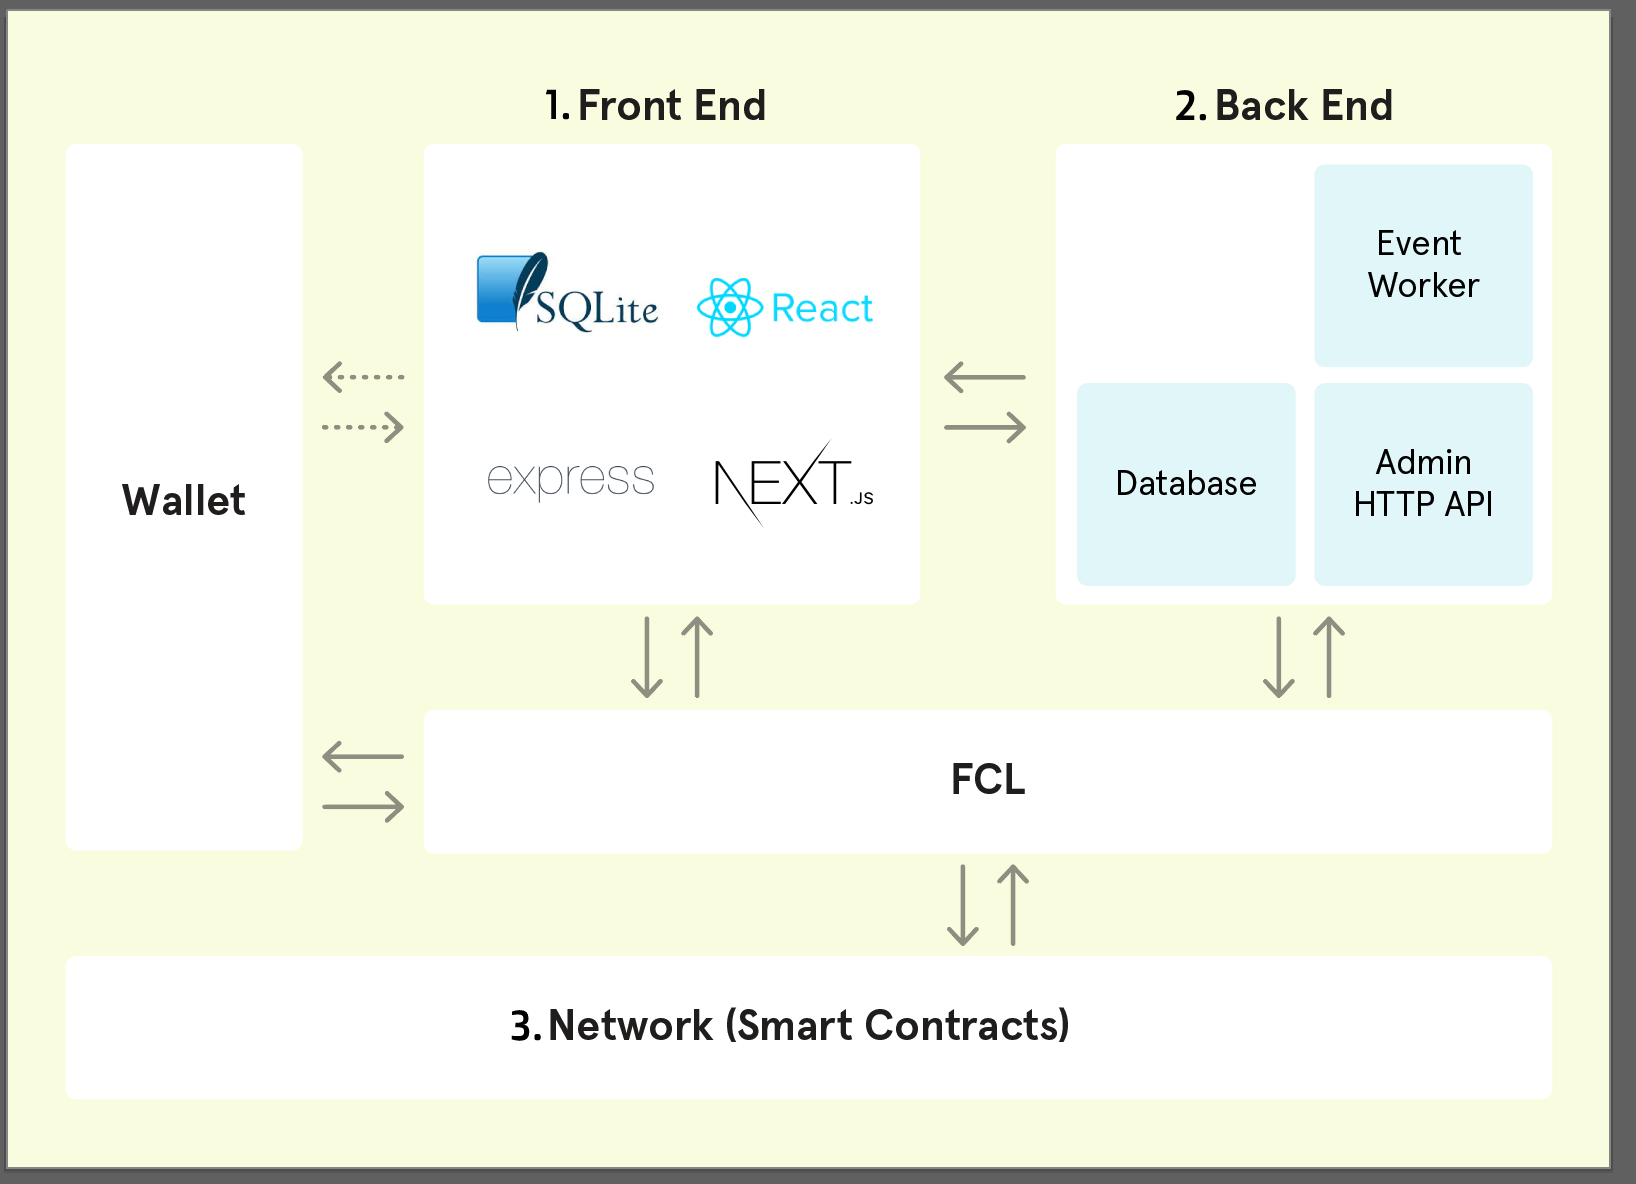
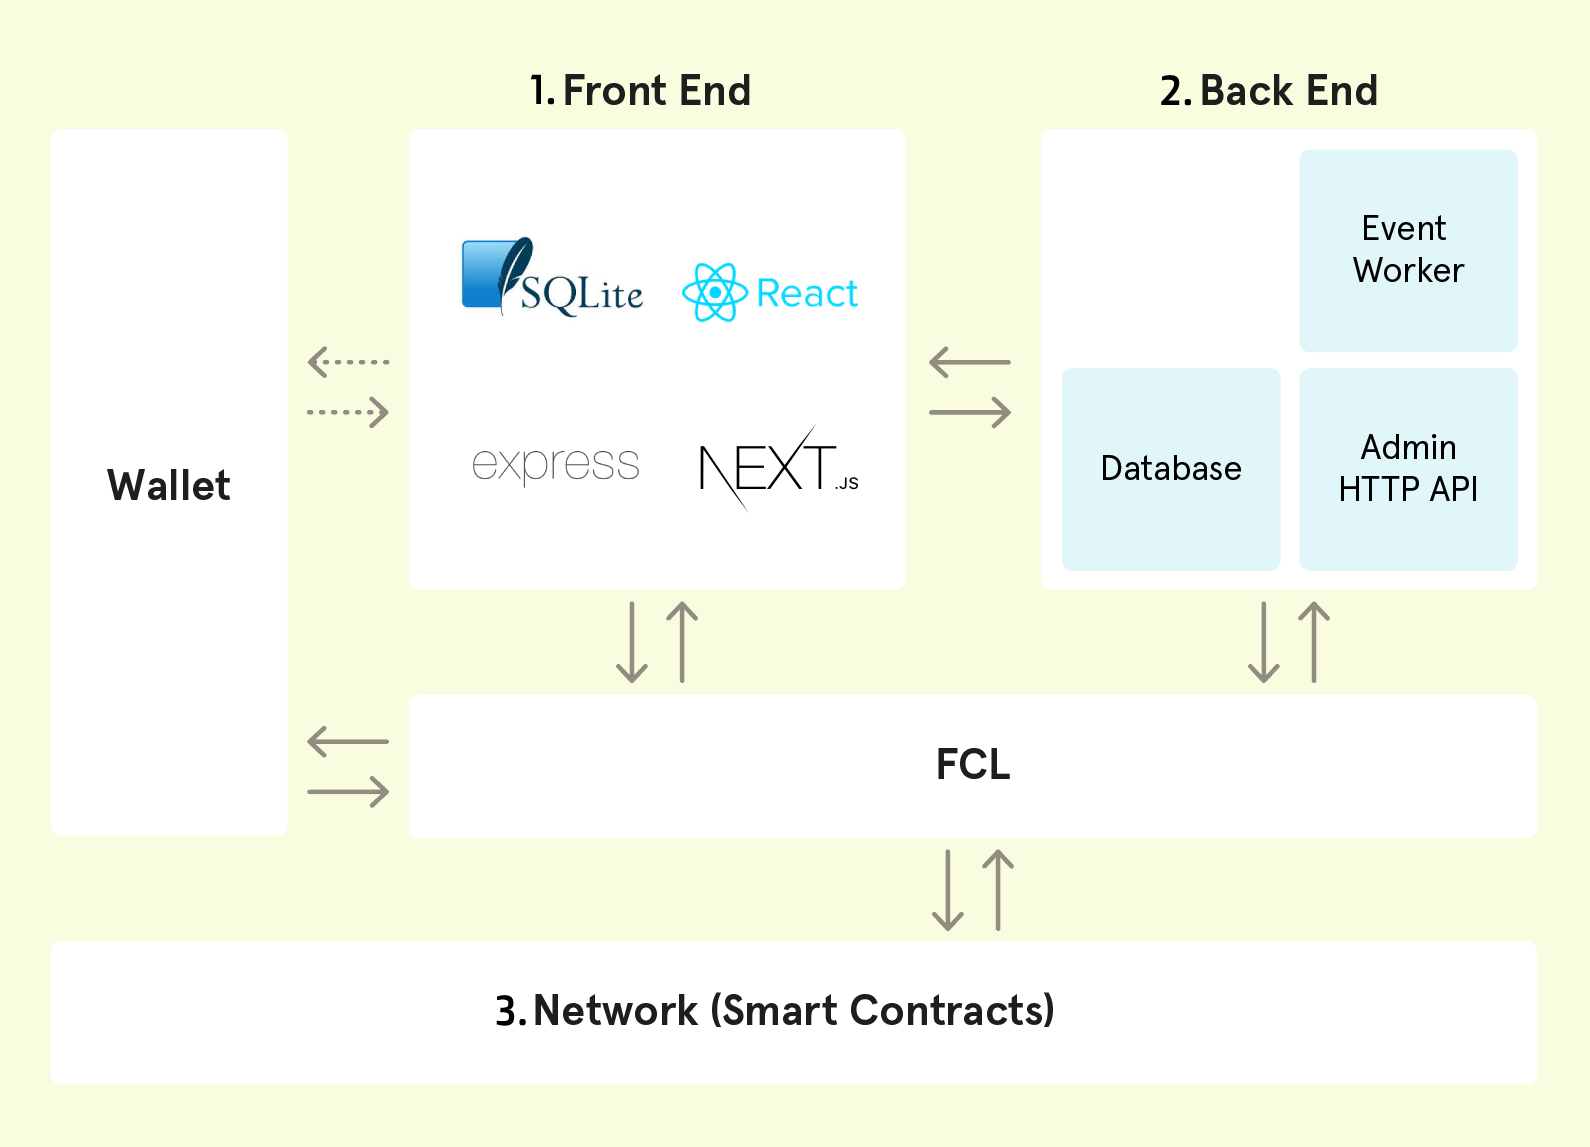
fix: instructions

Changed region(s): [[0.0, 0.0, 1.0, 1.0], [0.3082, 0.3967, 0.4006, 0.4272], [0.5855, 0.6408, 0.6472, 0.6713]]

diff --git a/docs/gatsby-config.js b/docs/gatsby-config.js
@@ -685,7 +685,7 @@ const sections = [
         "kitty-items/install",
         "kitty-items/start",
         "kitty-items/modify",
-        "kitty-items/upgrade",
+        "kitty-items/update",
         "kitty-items/next-steps",
       ],
       "NFT Matketplace Guide": [

diff --git a/docs/content/dapp-development/smart-contracts.md b/docs/content/dapp-development/smart-contracts.md
@@ -1,6 +1,6 @@
 ---
 title: Smart Contracts for Flow Dapps
-sidebar_title: Smart Contracts 
+sidebar_title: Smart Contracts
 ---
 
 At its core, a decentralized application is defined by the [smart contracts](https://en.wikipedia.org/wiki/Smart_contract) it uses on the blockchain. Rather than relying on centralized application servers and databases, dapps model their core application logic using smart contracts, often referred to as the “on-chain” code.
@@ -13,21 +13,21 @@ Smart contracts on the Flow blockchain are implemented in [Cadence](https://gith
 
 ### Onboard to Cadence
 
-To get started with Cadence, we recommended covering the introductory tutorials available in the [Flow Playground](https://play.onflow.org/), a simple web IDE designed for learning Cadence. 
+To get started with Cadence, we recommended covering the introductory tutorials available in the [Flow Playground](https://play.onflow.org/), a simple web IDE designed for learning Cadence.
 
 ### Learn Through Examples
 
-After learning the basics, check out the [Kitty Items sample dapp](https://github.com/onflow/kitty-items) to see Cadence contracts being used by a real web application. Inspired by CryptoKitties, Kitty Items demonstrates a simple NFT application that supports NFT minting, sales, and peer-to-peer trading.
+After learning the basics, check out the [Kitty Items sample dapp](/kitty-items/) to see Cadence contracts being used by a real web application. Inspired by CryptoKitties, Kitty Items demonstrates a simple NFT application that supports NFT minting, sales, and peer-to-peer trading.
 
 ### Configure Your Local Environment
 
-To build confidently, you will want to set up the appropriate local environment and have an adequate test suite to ensure your smart contracts operate as intended. To do this, read the [Kitty Items local development instructions](https://github.com/onflow/kitty-items/blob/master/LOCAL_DEV.md) to familiarize yourself with the following tools:
+To build confidently, you will want to set up the appropriate local environment and have an adequate test suite to ensure your smart contracts operate as intended. To do this, familiarize yourself with the following tools:
 
-* [Flow CLI](/flow-cli/): A utility to directly interact with the chain and manage accounts and contracts.
-* [Flow Emulator](/emulator/): A lightweight server that simulates the Flow blockchain (strongly recommended during development).
-* [FCL Dev Wallet](https://github.com/onflow/fcl-dev-wallet/): A utility to simulate user wallets in development.
-* [Visual Studio Code Extension](/vscode-extension/): An IDE integration for developing smart contracts.
-* [JS Testing Framework](https://github.com/onflow/flow-js-testing): A framework to easily test your smart contracts.
+- [Flow CLI](/flow-cli/): A utility to directly interact with the chain and manage accounts and contracts.
+- [Flow Emulator](/emulator/): A lightweight server that simulates the Flow blockchain (strongly recommended during development).
+- [FCL Dev Wallet](https://github.com/onflow/fcl-dev-wallet/): A utility to simulate user wallets in development.
+- [Visual Studio Code Extension](/vscode-extension/): An IDE integration for developing smart contracts.
+- [JS Testing Framework](https://github.com/onflow/flow-js-testing): A framework to easily test your smart contracts.
 
 ## Storing Data on Flow
 
@@ -63,16 +63,16 @@ The Flow blockchain has existing smart contract standards for both fungible and 
 
 All NFTs on the Flow blockchain implement the [NonFungibleToken](/core-contracts/non-fungible-token/) interface, allowing them to be compatible with wallets, marketplaces and other cross-app experiences.
 
-* [Non-Fungible Token (NFT) contract interface](/core-contracts/non-fungible-token/)
+- [Non-Fungible Token (NFT) contract interface](/core-contracts/non-fungible-token/)
 
 ### NFT Sales and Trading {#nft-sales-and-trading}
 
 Flow has a standard contract to facilitate both the direct sales and peer-to-peer trading of NFTs. The NFT storefront contract is useful for dapps that want to provide an NFT marketplace experience.
 
-* [NFT Storefront contract](https://github.com/onflow/nft-storefront)
+- [NFT Storefront contract](https://github.com/onflow/nft-storefront)
 
 ### Fungible Tokens
 
 Fungible tokens (i.e. coins, currencies) on the Flow blockchain, including the default cryptocurrency token FLOW, implement the [FungibleToken](/core-contracts/fungible-token/) interface.
 
-* [Fungible Token contract interface](/core-contracts/fungible-token/)
+- [Fungible Token contract interface](/core-contracts/fungible-token/)

diff --git a/docs/content/kitty-items/index.md b/docs/content/kitty-items/index.md
@@ -8,7 +8,7 @@ Kitty Items is a complete NFT marketplace inspired by [CryptoKitties](https://ww
 
 The following chapters use the project to explain the components and concepts of the Flow blockchain and its programming language [Cadence](/cadence/). At the end, you will be able to:
 
-- deploy and upgrade smart contracts
+- deploy and update smart contracts
 - mint and transfer NFTs
 - add a new kind of NFTs to the marketplace
 - interact with the Flow blockchain from within a web application
@@ -25,16 +25,16 @@ The project consists of 3 key components:
 
 ![Project overview](kitty-items-diagram.png)
 
-### 1. Web application
+### 1. Front End
 
-A true client-only web app. This is a complete web application built with NextJS and React that demonstrates how to build a website that connects directly to the Flow blockchain using [FCL](/fcl/). FCL handles authentication and authorization of [Flow accounts](/concepts/accounts-and-keys/), [signing transactions](/concepts/transaction-signing/), and querying data using using Cadence scripts.
+This is a complete web application built with NextJS and React that demonstrates how to build a website that connects directly to the Flow blockchain using [FCL](/fcl/). FCL handles authentication and authorization of [Flow accounts](/concepts/accounts-and-keys/), [signing transactions](/concepts/transaction-signing/), and querying data using using Cadence scripts.
 
-### 2. Backend API
+### 2. Back End
 
-We love decentralization, but servers are still very useful, and this one's no exception. The API helps preserve the separation of concerns, so that your process and business logic doesn't have to implemented on the front-end. Backend operations are necessary to ensure secure handling of accounts and associated keys and to streamline blockchain interactions.
+We love decentralization, but servers are still very useful, and this one's no exception. The backend API helps preserve the separation of concerns, so that your process and business logic doesn't have to implemented on the front-end. Backend operations are necessary to ensure secure handling of accounts and associated keys and to streamline blockchain interactions.
 
 The code in this project demonstrates how to connect to Flow using [FCL](/fcl/) from a Node JS backend. It's also chalk-full of handy patterns you'll probably want to use for more complex and feature-rich blockchain applications, like storing and querying events using a SQL database (SQLite). The API demonstrates how to send transactions to the Flow blockchain, specifically for minting [Kitty Items](https://github.com/onflow/kitty-items/blob/master/cadence/contracts/KittyItems.cdc) (non-fungible tokens).
 
-### 3. Cadence contracts, scripts, and transactions
+### 3. Network (Smart Contracts)
 
 [Cadence](/cadence) smart contracts, scripts & transactions for your viewing pleasure. This folder contains all of the blockchain logic for the marketplace application. Here you will find examples of [fungible token](https://github.com/onflow/flow-ft) and [non-fungible token (NFT)](https://github.com/onflow/flow-nft) smart contract implementations, as well as the scripts and transactions that interact with them. It also contains examples of how to _test_ your Cadence code.

diff --git a/docs/content/kitty-items/modify.md b/docs/content/kitty-items/modify.md
@@ -50,7 +50,7 @@ KITTY ITEMS HAS STARTED
 Visit: http://localhost:3001
 ```
 
-You may notice that you were not prompted for an account. This is because the local setup includes a [developer wallet](https://github.com/onflow/fcl-dev-wallet) that simulated user accounts.
+You may notice that you were not prompted for an account. This is because the local setup includes a [developer wallet](https://github.com/onflow/fcl-dev-wallet) that simulates user accounts.
 
 ## Add new NFT collection
 
@@ -161,35 +161,30 @@ You will notice that the new NFT collection will be available in four rarities, 
 
 > **Note**: If you were to add your own NFT, you would have to upload images to IPFS and store the new hashes instead.
 
-## Redeploy Cadence contract
+## Update contract on the emulator
 
-TODO
+Because you changed the smart contract for Kitty Items, you have to redeploy it to the emulator. Run the following command in your terminal, inside the root folder:
 
 ```sh
-# run in root folder of the project
-flow project deploy --update
+npm run update:emulator
 ```
 
-Response:
+The script will update all contracts included in the project. The last one is the one you changed.
 
 ```sh
 Deploying 4 contracts for accounts: emulator-account
 
-NonFungibleToken -> 0xf8d6e0586b0a20c7 (33460a91c9d83ea518fb776d5c54bb440873c6beb91b5ea5c1b2f7f111fe6218)
-
-NFTStorefront -> 0xf8d6e0586b0a20c7 (c0e64e01f4b64e51f6ef51307c415e3cd6b2c8cf35cf206bab8fc4d6aed3662b)
-
-MetadataViews -> 0xf8d6e0586b0a20c7 (e6c2cd6ad883a9209c4e3ebfc4e4b530818213dda7ac39c6f59087360decef11)
-
-KittyItems -> 0xf8d6e0586b0a20c7 (3610348aea10ca636649665bf29f3e7f0b31436bbbed8460491f9ff86e75dcdb)
-
+NonFungibleToken -> 0xf8d6e0586b0a20c7 (3346...6218)
+NFTStorefront -> 0xf8d6e0586b0a20c7 (c0e6...662b)
+MetadataViews -> 0xf8d6e0586b0a20c7 (e6c2...ef11)
+KittyItems -> 0xf8d6e0586b0a20c7 (3612...dcdb)
 
 ✨ All contracts deployed successfully
 ```
 
 **Congratulations! You have completed all changes and your project now includes a new NFT collection for sunglasses.**
 
-## Mint a new sunglasses NFT
+## Mint new sunglasses NFT
 
 To mint one of the new NFTs in your local environment, you will go to the Kitty Items admin dashboard.
 
@@ -201,6 +196,6 @@ Next, click on the top banner to "Mint some Kitty Items". You will be prompted t
 
 Now, hit the "Mint Item" button and see a new NFT being generated. The generation of new NFTs is randomized, so you will have to **mint a few new NFTs** until you will see an NFT from your new sunglasses collection.
 
-During the minting process, you should see the shades flash in the preview pane on the left side of the screen.
+During the minting process, you should see the sunglasses flash in the preview pane on the left side of the screen.
 
-> **Note**: It is best to hit the back button in your browser to get back to the "Mint a New Item" screen. You can jump to this screen by opening this URL: [`http://localhost:3001/admin/mint/`](http://localhost:3001/admin/mint/).
+> **Note**: It is best to hit the back button in your browser to get back to the "Mint a New Item" screen. You can jump to this screen by opening the [admin dashboard](http://localhost:3001/admin/mint/) directly.

diff --git a/docs/content/kitty-items/update.md b/docs/content/kitty-items/update.md
@@ -1,0 +1,88 @@
+---
+title: Update
+description: Update modified contracts on the testnet
+sidebar_title: Update
+---
+
+In the [first step](/kitty-items/start/) of this tutorial, you started the project on the testnet. The script uploaded the initial contracts on the network for you.
+
+Now that you implemented and tested your changes locally on the emulator, it is time to deploy your modified smart contracts to the testnet.
+
+## Start on testnet
+
+Run the project on the testnet again. The script will use the account you initially created:
+
+```sh
+npm run dev:testnet
+```
+
+You will be asked if you want to use the existing account credentials. Enter `Y` to continue:
+
+```sh
+? Use existing tesnet credentials in env.testnet ? (Y/n) Y
+```
+
+Once all services are up and running, you will see the same logs you saw in the [second step](/kitty-items/start/):
+
+```sh
+✔ API server started
+ℹ Kitty Items API is running at: http://localhost:3000
+ℹ View log output: npx pm2 logs api
+
+✔ Storefront web app started
+ℹ Kitty Items Web App is running at: http://localhost:3001
+ℹ View log output: npx pm2 logs web
+
+KITTY ITEMS HAS STARTED
+
+
+Visit: http://localhost:3001
+
+
+View your account and transactions here:
+https://testnet.flowscan.org/account/0xa4c19ed9d691743c
+
+Explore your account here:
+https://flow-view-source.com/testnet/account/0xa4c19ed9d691743c
+```
+
+Open up the last link to explore your testnet account via flow-view-source. On the left side navigation, locate the Kitty Items contract.
+
+Keep this page open - we will get back to it once we are done!
+
+### Update contract on the testnet
+
+Next, redeploy the contracts to the testnet by running the following command in your terminal, inside the root folder of your project:
+
+```sh
+npm run update:testnet
+```
+
+The script will update the changed contract:
+
+```sh
+Deploying 1 contracts for accounts: testnet-account
+
+KittyItems -> 0x580b8132bc817403 (ba7f...bdc88)
+
+✨ All contracts deployed successfully
+```
+
+> **Note**: You may notice that this time only one contract was updated. This is because the other 3 contracts were already deployed outside of this project.
+
+Go back to the flow-view-source page and refresh the contract view. Scroll down verify the changes you made to your contract. For instance, you should see `shades` case in the `Kind` enum.
+
+**If you see your changes your smart contract was updated successfully on the testnet!**
+
+Congratulation on completing this tutorial. You should now understand how to ..
+
+- deploy and update smart contracts
+- mint and transfer NFTs
+- add a new kind of NFTs to the marketplace
+- interact with the Flow blockchain from within a web application
+
+## Optional: Mint new sunglasses NFT on testnet
+
+To verify that everything works as expected, you can mint one of the new NFTs on the testnet.
+
+Open the Kitty Items web application: [`http://localhost:3001/`](http://localhost:3001/). This time, the **web application is wired up to interact with testnet smart contracts** you updated. Repeat [the instructions from the last step](/kitty-items/modify/#mint-new-sunglasses-nft).

diff --git a/docs/content/kitty-items/start.md b/docs/content/kitty-items/start.md
@@ -26,7 +26,7 @@ https://testnet-faucet.onflow.org/?key=096..a85&source=ki
 ⚠  Don't exit this terminal.
 ```
 
-Open up the link to the testnet faucet page, complete the Captcha challenge, and hit `Create Account`.
+Open up the link to the testnet faucet page, complete the CAPTCHA challenge, and hit `Create Account`.
 
 > **Note**: This process will take a few seconds. You should see a loading indicator confirming your account is being generated.
 
@@ -59,9 +59,9 @@ Feel free to close the faucet page. Hit enter and the script will complete setti
 
 As indicated in the logs, your account details are stored in a new file: `.env.testnet.local`. This file will be used whenever you start the service, so you don't have to handle account creation again.
 
-> **Note**: Never commit this file to Git - it contains your private key!
+> **Note**: Never commit this file to your version control system - it contains your private key!
 
-Once all services are started up, you will see the following:
+Once all services are up and running, you will see the following:
 
 ```sh
 KITTY ITEMS HAS STARTED
@@ -88,3 +88,5 @@ Open up the web application by visiting [`http://localhost:3001`](http://localho
 ![welcome-ui](welcome-ui.png)
 
 As a first step, you can try minting your first NFT, aka a Kitty Item. Follow the instructions on the page.
+
+> **Note**: Not able to mint a Kitty Item? Take a look at the [troubleshooting FAQs](https://github.com/onflow/kitty-items#troubleshooting).

diff --git a/docs/content/kitty-items/install.md b/docs/content/kitty-items/install.md
@@ -60,7 +60,7 @@ Once the installation is completed, you are ready to start the project.
 
 ### Apple M1 compatibility
 
-In case you are on an [Apple M1 machine](https://en.wikipedia.org/wiki/Apple_M1), you have to install another package run the NextJS web application on your system. If you don't know if you are running on Apple M1, skip this step.
+In case you are on an [Apple M1 machine](https://en.wikipedia.org/wiki/Apple_M1), you have to install another package run the web application on your system. If you are not aware of the system you are running, you can skip this step.
 
 ```sh
 # move to the web folder
@@ -73,4 +73,4 @@ npm i @next/swc-darwin-arm64
 cd ..
 ```
 
-> **Note**: This installation will fail if you are not on an Apple M1 machine
+> **Note**: This installation will fail if you are not on an Apple M1 machine. If you are on an Apple M1 machine and skip this step, your web application will not start successfully.
